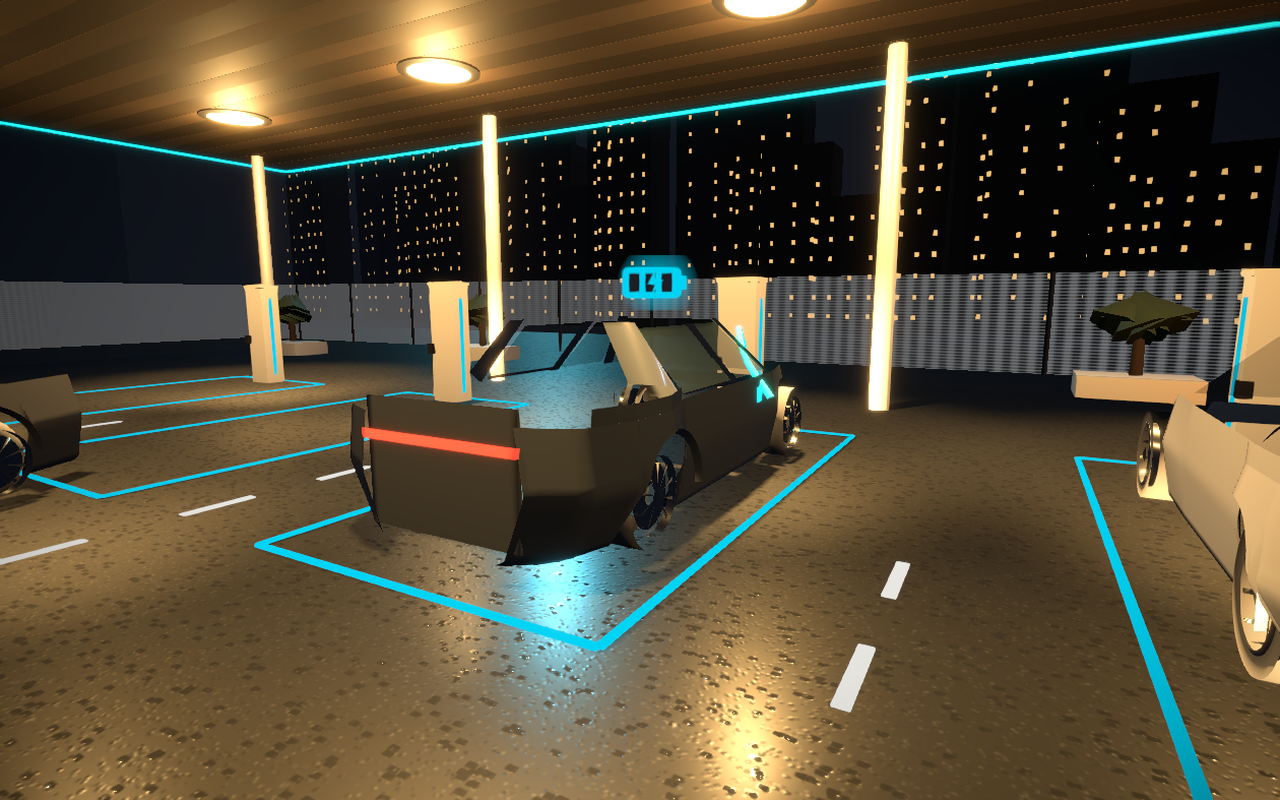
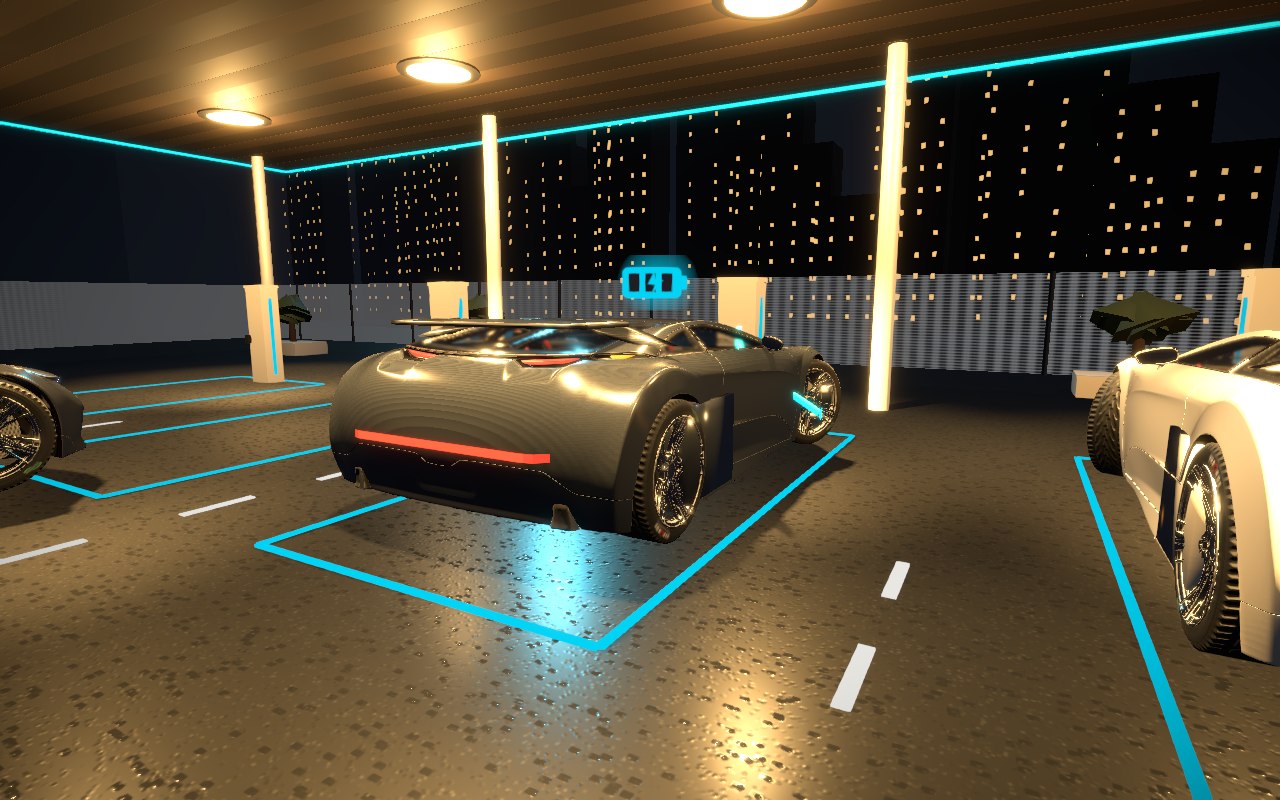
feat: recapture stills for sealed CarConcept notch kit
Guests load the CC0 Khronos/Unity Fan CarConcept GLB with a thin
painted deck lid, C-pillars, and side-intake plugs. Morphing the
haunch opened holes, so the hull stays sealed. startNight stills
are 1280x800.

diff --git a/src/cars/notch-kit.ts b/src/cars/notch-kit.ts
@@ -1,9 +1,7 @@
 import * as THREE from "three";
-import { MeshBuilder, clamp, lerp, smoothstep, type Vec3 } from "./loft";
+import { MeshBuilder, clamp, lerp, type Vec3 } from "./loft";
 
-/** Retarget CarConcept's fastback haunch into a sealed short notchback deck. */
-
-const HIDE = /bodyrearwindow|interiorrearhatch|license|bodytaillights$|bodyturnsignalsrear/;
+/** Composite a sealed short deck + C-pillar onto CarConcept without opening the hull. */
 
 function eachMesh(root: THREE.Object3D, fn: (mesh: THREE.Mesh) => void): void {
   root.traverse((o) => {
@@ -50,36 +48,6 @@ function clonePaint(root: THREE.Object3D): THREE.MeshPhysicalMaterial {
   });
 }
 
-function cloneGlass(root: THREE.Object3D): THREE.MeshPhysicalMaterial {
-  let src: THREE.MeshPhysicalMaterial | undefined;
-  eachMesh(root, (mesh) => {
-    const n = `${mesh.name} ${(mesh.material as THREE.Material)?.name ?? ""}`.toLowerCase();
-    if (n.includes("windshield") || n.includes("glass")) {
-      const mat = (Array.isArray(mesh.material) ? mesh.material[0] : mesh.material) as THREE.MeshPhysicalMaterial;
-      if (mat?.isMeshPhysicalMaterial) src = mat;
-    }
-  });
-  if (src) {
-    const m = src.clone();
-    m.name = "Glass";
-    m.transparent = true;
-    m.side = THREE.DoubleSide;
-    return m;
-  }
-  return new THREE.MeshPhysicalMaterial({
-    name: "Glass",
-    color: 0x243038,
-    metalness: 0.15,
-    roughness: 0.03,
-    transparent: true,
-    opacity: 0.38,
-    transmission: 0.88,
-    thickness: 0.06,
-    envMapIntensity: 1.75,
-    side: THREE.DoubleSide,
-  });
-}
-
 function toMesh(builder: MeshBuilder, mat: THREE.Material, name: string): THREE.Mesh {
   const { positions, normals, indices } = builder.finish(true);
   const geo = new THREE.BufferGeometry();
@@ -117,50 +85,23 @@ function hexSolid(mesh: MeshBuilder, top: Vec3[], bot: Vec3[]): void {
   }
 }
 
-function morphable(mesh: THREE.Mesh): boolean {
-  let o: THREE.Object3D | null = mesh;
-  while (o) {
-    if (/BodyRearPanels|BodyPanelsColor2|InteriorRear|BodyTaillightsPanels/.test(o.name)) return true;
-    o = o.parent;
-  }
-  return false;
-}
-
-function flattenHaunch(root: THREE.Object3D, xCut: number, xFull: number, yDeck: number): void {
-  const world = new THREE.Vector3();
-  const local = new THREE.Vector3();
-  const inv = new THREE.Matrix4();
-  eachMesh(root, (mesh) => {
-    if (!mesh.visible || !morphable(mesh)) return;
-    const pos = mesh.geometry.getAttribute("position");
-    if (!pos) return;
-    inv.copy(mesh.matrixWorld).invert();
-    for (let i = 0; i < pos.count; i++) {
-      world.fromBufferAttribute(pos, i).applyMatrix4(mesh.matrixWorld);
-      if (world.x >= xCut || world.y <= yDeck) continue;
-      const t = smoothstep(0, 1, clamp((xCut - world.x) / Math.max(0.08, xCut - xFull), 0, 1));
-      const cap = lerp(1.32, yDeck, t);
-      if (world.y > cap) {
-        world.y = cap;
-        local.copy(world).applyMatrix4(inv);
-        pos.setXYZ(i, local.x, local.y, local.z);
-      }
-    }
-    pos.needsUpdate = true;
-    mesh.geometry.computeVertexNormals();
-  });
-}
-
-function deckLid(mesh: MeshBuilder, xRear: number, xCabin: number, yLid: number, yUnder: number, zHalf: number): void {
-  const cols = 28;
-  const rows = 16;
+function lid(mesh: MeshBuilder, win: THREE.Box3): void {
+  const x0 = win.min.x - 0.01;
+  const x1 = lerp(win.min.x, win.max.x, 0.4);
+  const y0 = win.max.y - 0.008;
+  const y1 = win.max.y + 0.022;
+  const z0 = win.min.z - 0.02;
+  const z1 = win.max.z + 0.02;
+  const cols = 20;
+  const rows = 12;
   const pt = (u: number, v: number, y: number): Vec3 => {
     const side = v * 2 - 1;
-    const corner = clamp((Math.abs(side) - 0.72) / 0.28, 0, 1);
-    const x = lerp(xRear, xCabin, u) + corner * (1 - u) * 0.12;
-    const z = side * lerp(zHalf, zHalf * 0.82, corner * (1 - u));
-    const crown = y > yUnder + 0.01 ? Math.sin(u * Math.PI) * (1 - Math.abs(side)) * 0.02 : 0;
-    return { x, y: y + crown, z };
+    const corner = clamp((Math.abs(side) - 0.75) / 0.25, 0, 1);
+    return {
+      x: lerp(x0, x1, u) + corner * (1 - u) * 0.06,
+      y: y + (1 - Math.abs(side)) * Math.sin(u * Math.PI) * 0.012,
+      z: lerp(z0, z1, v),
+    };
   };
   for (let i = 0; i < cols; i++) {
     const u0 = i / cols;
@@ -168,111 +109,63 @@ function deckLid(mesh: MeshBuilder, xRear: number, xCabin: number, yLid: number,
     for (let j = 0; j < rows; j++) {
       const v0 = j / rows;
       const v1 = (j + 1) / rows;
-      mesh.addQuad(pt(u0, v0, yLid), pt(u1, v0, yLid), pt(u1, v1, yLid), pt(u0, v1, yLid));
-      mesh.addQuad(pt(u0, v1, yUnder), pt(u1, v1, yUnder), pt(u1, v0, yUnder), pt(u0, v0, yUnder));
+      mesh.addQuad(pt(u0, v0, y1), pt(u1, v0, y1), pt(u1, v1, y1), pt(u0, v1, y1));
+      mesh.addQuad(pt(u0, v1, y0), pt(u1, v1, y0), pt(u1, v0, y0), pt(u0, v0, y0));
     }
-    mesh.addQuad(pt(u0, 0, yUnder), pt(u1, 0, yUnder), pt(u1, 0, yLid), pt(u0, 0, yLid));
-    mesh.addQuad(pt(u0, 1, yLid), pt(u1, 1, yLid), pt(u1, 1, yUnder), pt(u0, 1, yUnder));
+    mesh.addQuad(pt(u0, 0, y0), pt(u1, 0, y0), pt(u1, 0, y1), pt(u0, 0, y1));
+    mesh.addQuad(pt(u0, 1, y1), pt(u1, 1, y1), pt(u1, 1, y0), pt(u0, 1, y0));
   }
   for (let j = 0; j < rows; j++) {
     const v0 = j / rows;
     const v1 = (j + 1) / rows;
-    mesh.addQuad(pt(0, v0, yUnder), pt(0, v0, yLid), pt(0, v1, yLid), pt(0, v1, yUnder));
-    mesh.addQuad(pt(1, v0, yLid), pt(1, v0, yUnder), pt(1, v1, yUnder), pt(1, v1, yLid));
+    mesh.addQuad(pt(0, v0, y0), pt(0, v0, y1), pt(0, v1, y1), pt(0, v1, y0));
+    mesh.addQuad(pt(1, v0, y1), pt(1, v0, y0), pt(1, v1, y0), pt(1, v1, y1));
   }
 }
 
 export function sedanizeConcept(root: THREE.Group): void {
   eachMesh(root, (mesh) => {
-    if (HIDE.test(mesh.name.toLowerCase())) mesh.visible = false;
+    if (/license/.test(mesh.name.toLowerCase())) mesh.visible = false;
   });
 
+  const rearWin = named(root, /BodyRearwindow/);
   const roof = named(root, /BodyRoofPanel/);
   const rear = named(root, /BodyRearPanelsColor1/);
-  const doorWin = named(root, /BodyDoorLWindow$/);
-  const hull = boxOf(root);
-  const roofBox = roof ? boxOf(roof) : hull;
-  const rearBox = rear ? boxOf(rear) : hull;
+  if (!rearWin) return;
 
-  const xRear = hull.min.x;
-  const xCut = -1.5;
-  const xFull = -1.92;
-  const yDeck = 1.02;
+  const win = boxOf(rearWin);
+  const roofBox = roof ? boxOf(roof) : win;
+  const rearBox = rear ? boxOf(rear) : win;
+  const xSplit = lerp(win.min.x, win.max.x, 0.42);
+  const yDeck = win.min.y + 0.02;
   const yRoof = roofBox.max.y;
   const zHip = Math.max(Math.abs(rearBox.max.z), Math.abs(rearBox.min.z));
   const zRoof = Math.max(Math.abs(roofBox.max.z), Math.abs(roofBox.min.z));
 
-  flattenHaunch(root, xCut, xFull, yDeck);
-
   const paint = new MeshBuilder();
-  const glass = new MeshBuilder();
-  const chrome = new MeshBuilder();
-
-  deckLid(paint, xRear + 0.02, xCut + 0.04, yDeck + 0.012, yDeck - 0.07, zHip * 0.9);
+  lid(paint, win);
 
   for (const side of [1, -1]) {
     hexSolid(
       paint,
       [
-        { x: xCut + 0.12, y: yRoof - 0.01, z: (zRoof - 0.02) * side },
-        { x: xCut - 0.02, y: yRoof - 0.01, z: (zRoof - 0.1) * side },
-        { x: xCut - 0.02, y: yRoof - 0.01, z: zRoof * 0.4 * side },
-        { x: xCut + 0.12, y: yRoof - 0.01, z: zRoof * 0.48 * side },
+        { x: xSplit + 0.06, y: yRoof - 0.004, z: (zRoof - 0.03) * side },
+        { x: xSplit - 0.01, y: yRoof - 0.004, z: (zRoof - 0.07) * side },
+        { x: xSplit - 0.01, y: yRoof - 0.004, z: zRoof * 0.55 * side },
+        { x: xSplit + 0.06, y: yRoof - 0.004, z: zRoof * 0.62 * side },
       ],
       [
-        { x: xCut + 0.02, y: yDeck, z: (zHip - 0.04) * side },
-        { x: xCut - 0.14, y: yDeck, z: (zHip - 0.12) * side },
-        { x: xCut - 0.14, y: yDeck, z: zHip * 0.52 * side },
-        { x: xCut + 0.02, y: yDeck, z: zHip * 0.6 * side },
+        { x: xSplit + 0.01, y: yDeck + 0.04, z: (zHip - 0.14) * side },
+        { x: xSplit - 0.08, y: yDeck + 0.04, z: (zHip - 0.2) * side },
+        { x: xSplit - 0.08, y: yDeck + 0.04, z: zHip * 0.62 * side },
+        { x: xSplit + 0.01, y: yDeck + 0.04, z: zHip * 0.68 * side },
       ],
     );
-    solidBox(
-      chrome,
-      { x: -1.28, y: 0.7, z: (zHip + 0.004) * side },
-      { x: -1.2, y: 0.76, z: (zHip + 0.02) * side },
-    );
-  }
-
-  const gHalf = zRoof * 0.78;
-  for (let i = 0; i < 14; i++) {
-    const t0 = i / 14;
-    const t1 = (i + 1) / 14;
-    glass.addQuad(
-      { x: xCut + 0.01, y: yDeck + 0.02, z: lerp(-gHalf, gHalf, t0) },
-      { x: xCut + 0.01, y: yDeck + 0.02, z: lerp(-gHalf, gHalf, t1) },
-      { x: xCut + 0.08, y: yRoof - 0.025, z: lerp(-gHalf, gHalf, t1) * 0.9 },
-      { x: xCut + 0.08, y: yRoof - 0.025, z: lerp(-gHalf, gHalf, t0) * 0.9 },
-    );
-  }
-
-  if (doorWin) {
-    const w = boxOf(doorWin);
-    const xB = lerp(w.max.x, w.min.x, 0.7);
-    for (const side of [1, -1]) {
-      solidBox(
-        paint,
-        { x: xB - 0.028, y: w.min.y + 0.01, z: (Math.abs(w.max.z) - 0.015) * side },
-        { x: xB + 0.028, y: w.max.y - 0.01, z: (Math.abs(w.max.z) + 0.018) * side },
-      );
-    }
+    solidBox(paint, { x: -1.62, y: 0.36, z: 1.08 * side }, { x: -0.88, y: 0.98, z: 1.255 * side });
   }
 
   const kit = new THREE.Group();
   kit.name = "NotchKit";
   kit.add(toMesh(paint, clonePaint(root), "Paint"));
-  kit.add(toMesh(glass, cloneGlass(root), "Glass"));
-  kit.add(
-    toMesh(
-      chrome,
-      new THREE.MeshPhysicalMaterial({
-        name: "Chrome",
-        color: 0xd0d4d8,
-        metalness: 1,
-        roughness: 0.1,
-        envMapIntensity: 2,
-      }),
-      "Chrome",
-    ),
-  );
   root.add(kit);
 }

diff --git a/src/world/cars.ts b/src/world/cars.ts
@@ -251,19 +251,29 @@ async function loadHull(kind: HullKind, file: string, fallback: () => BuiltPart[
     if (meshCount.n > 20) {
       const fitted = fitConcept(gltf.scene, kind);
       dressConcept(fitted);
-      sedanizeConcept(fitted);
+      try {
+        sedanizeConcept(fitted);
+      } catch (err) {
+        console.warn("sedanizeConcept failed, keeping CarConcept base", err);
+      }
       inletByKind[kind] = addEvCues(fitted);
       prototypes[kind] = fitted;
+      fitted.userData.meshCount = meshCount.n;
+      fitted.userData.source = file;
     } else {
       dressAuthored(gltf.scene);
       prototypes[kind] = gltf.scene;
       inletByKind[kind] = kind === "suv" ? SUV_INLET : SEDAN_INLET;
+      gltf.scene.userData.meshCount = meshCount.n;
+      gltf.scene.userData.source = file;
     }
-  } catch {
+  } catch (err) {
+    console.warn("hull load failed, authored fallback", file, err);
     const group = partsToGroup(fallback());
     dressAuthored(group);
     prototypes[kind] = group;
     inletByKind[kind] = kind === "suv" ? SUV_INLET : SEDAN_INLET;
+    group.userData.source = "fallback";
   }
   return prototypes[kind]!;
 }
@@ -272,6 +282,11 @@ export async function loadCarPrototypes(): Promise<void> {
   await loadHull("sedan", "ev-concept.glb", buildSedanParts);
   prototypes.suv = prototypes.sedan;
   inletByKind.suv = inletByKind.sedan ?? SUV_INLET;
+}
+
+export function hullDebug(): { source?: string; meshCount?: number } {
+  const u = prototypes.sedan?.userData ?? {};
+  return { source: u.source, meshCount: u.meshCount };
 }
 
 function tintPaint(root: THREE.Object3D, color: number): void {

diff --git a/src/main.ts b/src/main.ts
@@ -13,7 +13,7 @@ import {
 } from "./game/shift";
 import { Walker } from "./input/walker";
 import { configureKeyLight, createNightProbe, createPipeline, createRenderer } from "./render/pipeline";
-import { loadCarPrototypes, syncCars, type CarView } from "./world/cars";
+import { hullDebug, loadCarPrototypes, syncCars, type CarView } from "./world/cars";
 import { KIOSK } from "./world/layout";
 import { buildSkyline } from "./world/skyline";
 import { buildStation } from "./world/station";
@@ -355,6 +355,7 @@ window.__electromat = {
     walker.lookAt(x, y, z);
   },
   capture,
+  hullDebug,
 };
 
 void loadCarPrototypes().then(() => {

diff --git a/src/vite-env.d.ts b/src/vite-env.d.ts
@@ -6,6 +6,7 @@ interface ElectromatApi {
   place: (x: number, z: number, yaw?: number, pitch?: number) => void;
   lookAt: (x: number, y: number, z: number) => void;
   capture: (w?: number, h?: number) => string;
+  hullDebug: () => { source?: string; meshCount?: number };
   state: import("./game/state").GameState;
 }
 

diff --git a/public/cars/ATTRIBUTION.md b/public/cars/ATTRIBUTION.md
@@ -6,12 +6,15 @@ Guest cars load `ev-concept.glb` — Khronos glTF Sample Assets **CarConcept**
 Source mesh: Unity Fan Concept Car 004, donated to Khronos as CC0 1.0.
 https://github.com/KhronosGroup/glTF-Sample-Assets/tree/main/Models/CarConcept
 
-A runtime **notch kit** (`src/cars/notch-kit.ts`) hides the fastback rear
-window, morphs the rear haunch down into a short closed trunk deck, and
-composites painted C-pillars, a vertical backlight, a B-pillar split, and a
-wraparound red bar. Doors stay closed; clearcoat, greenhouse glass, round
-arches, and silver rims stay on the CarConcept materials. No open / gull-wing
-side panels.
+A runtime **notch kit** (`src/cars/notch-kit.ts`) leaves the CarConcept hull
+sealed (no vertex smash, no hidden hatch hole) and composites a thin painted
+deck lid, C-pillars, side-intake plugs, and a wraparound red bar. Doors stay
+closed; clearcoat, greenhouse glass, round arches, and silver rims stay on
+the CarConcept materials. No open / gull-wing side panels.
+
+Morphing the fastback haunch into a deeper three-box opened holes and
+regressed below cab3959, so fidelity of the CC0 hull wins over a forced
+Taycan clone.
 
 `ev-sedan.glb` / `ev-suv.glb` remain authored fallbacks only (`npm run export:sedan`).
 They are not loaded for guests.
